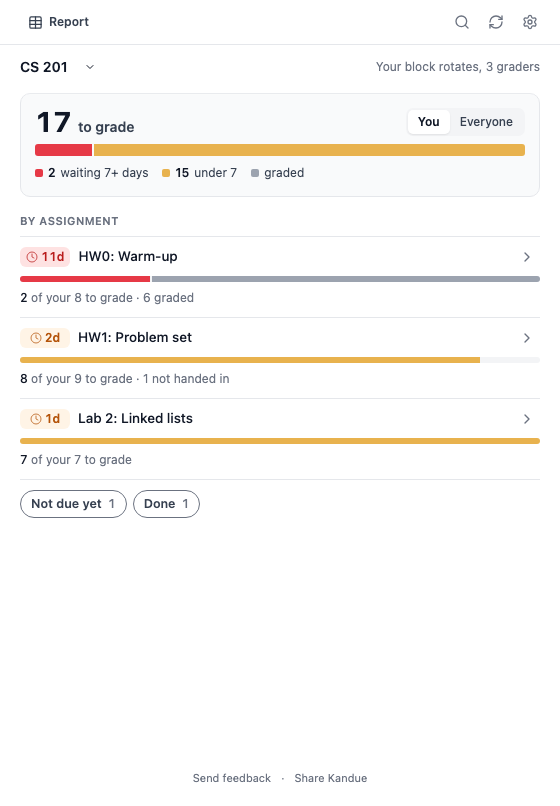
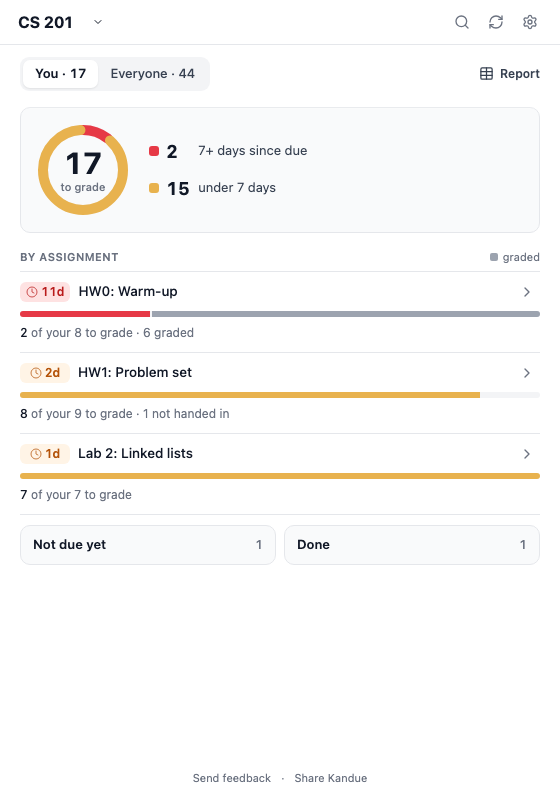
Grading copy and screenshots show the ring and waits since due

Changed region(s): [[0.0304, 0.0, 0.9714, 0.6824], [0.5161, 0.6514, 0.6071, 0.6824], [0.2125, 0.062, 0.3036, 0.0931]]

diff --git a/docs/index.html b/docs/index.html
@@ -507,7 +507,7 @@
                     <div class="feature">
                         <div class="badge"><svg viewBox="0 0 24 24" fill="none" stroke="currentColor" stroke-width="2"><circle cx="12" cy="12" r="9"></circle><polyline points="12 7 12 12 15 14"></polyline></svg></div>
                         <h4>Longest wait first</h4>
-                        <p>How many you have to grade, over a bar split at seven days of waiting. When other graders hold work too, a You / Everyone switch shows each grader's backlog by wait and your share of the course. Below it, one row per assignment, longest wait first, with a bar.</p>
+                        <p>How many you have to grade, in a ring split at seven days since the due date. When other graders hold work too, a You / Everyone switch shows the course's count and each grader's backlog by wait. Below it, one row per assignment, longest wait first, with a bar.</p>
                     </div>
                     <div class="feature">
                         <div class="badge"><svg viewBox="0 0 24 24" fill="none" stroke="currentColor" stroke-width="2"><path d="M20 21v-2a4 4 0 0 0-4-4H8a4 4 0 0 0-4 4v2"></path><circle cx="12" cy="7" r="4"></circle></svg></div>
@@ -542,7 +542,7 @@
                 <p class="sub">Fictional course, invented students: nothing in these captures comes from a real Canvas course.</p>
 
                 <div class="shot-feature">
-                    <div class="shot-media"><img src="ss-grading-queue.png?v=8" width="560" height="806" alt="The Kandue for Graders queue: 17 to grade over a bar split into 2 waiting 7+ days and 15 under 7, a You / Everyone switch, then rows for HW0, HW1 and Lab 2, each with its longest wait (11 days, in red, for HW0), a bar and a line such as &quot;2 of your 8 to grade · 6 graded&quot;, and Not due yet and Done pills under the list" loading="lazy" decoding="async"></div>
+                    <div class="shot-media"><img src="ss-grading-queue.png?v=9" width="560" height="806" alt="The Kandue for Graders queue: a You · 17 / Everyone · 44 switch beside the Report link, 17 to grade in a ring split into 2 at 7+ days since due and 15 under 7 days, then rows for HW0, HW1 and Lab 2, each led by its longest wait (11 days, in red, for HW0), with a bar and a line such as &quot;2 of your 8 to grade · 6 graded&quot;, and Not due yet and Done buttons under the list" loading="lazy" decoding="async"></div>
                     <div class="shot-copy">
                         <h4>Who is waiting on you</h4>
                         <p>Every assignment with students of yours still to grade, the longest wait at the top. Each row says how long the first of your students has waited and how many of them are still to grade, with a bar for your block.</p>
@@ -551,12 +551,12 @@
 
                 <div class="shot-grid">
                     <div class="shot">
-                        <img src="ss-grading-work.png?v=8" width="560" height="820" alt="The worklist for HW0: Warm-up, due 11 days ago, with the grader's median score against the other graders', Rosa Mendes and Nia Okafor marked To grade after waiting 11 days, and the students around them already scored 4 or 5 out of 5" loading="lazy" decoding="async">
+                        <img src="ss-grading-work.png?v=9" width="560" height="820" alt="The worklist for HW0: Warm-up, due 11 days ago, with the grader's median score against the other graders', Rosa Mendes and Nia Okafor marked To grade, and the students around them already scored 4 or 5 out of 5" loading="lazy" decoding="async">
                         <h4>The worklist for your block</h4>
                         <p>To grade, graded with the score, resubmitted, late, missing or excused, each student one click from SpeedGrader.</p>
                     </div>
                     <div class="shot">
-                        <img src="ss-grading-split.png?v=9" width="560" height="920" alt="Kandue for Graders settings showing who grades whom: three TAs with their student ranges, the signed-in grader's own block in bold, and a note that 22 of 22 graded rows match this split" loading="lazy" decoding="async">
+                        <img src="ss-grading-split.png?v=10" width="560" height="920" alt="Kandue for Graders settings showing who grades whom: three TAs with their student ranges, the signed-in grader's own block in bold, and a note that 22 of 22 graded rows match this split" loading="lazy" decoding="async">
                         <h4>Who grades whom, read back</h4>
                         <p>The split every TA is actually using, checked against every grade already entered, with the disagreements named.</p>
                     </div>
